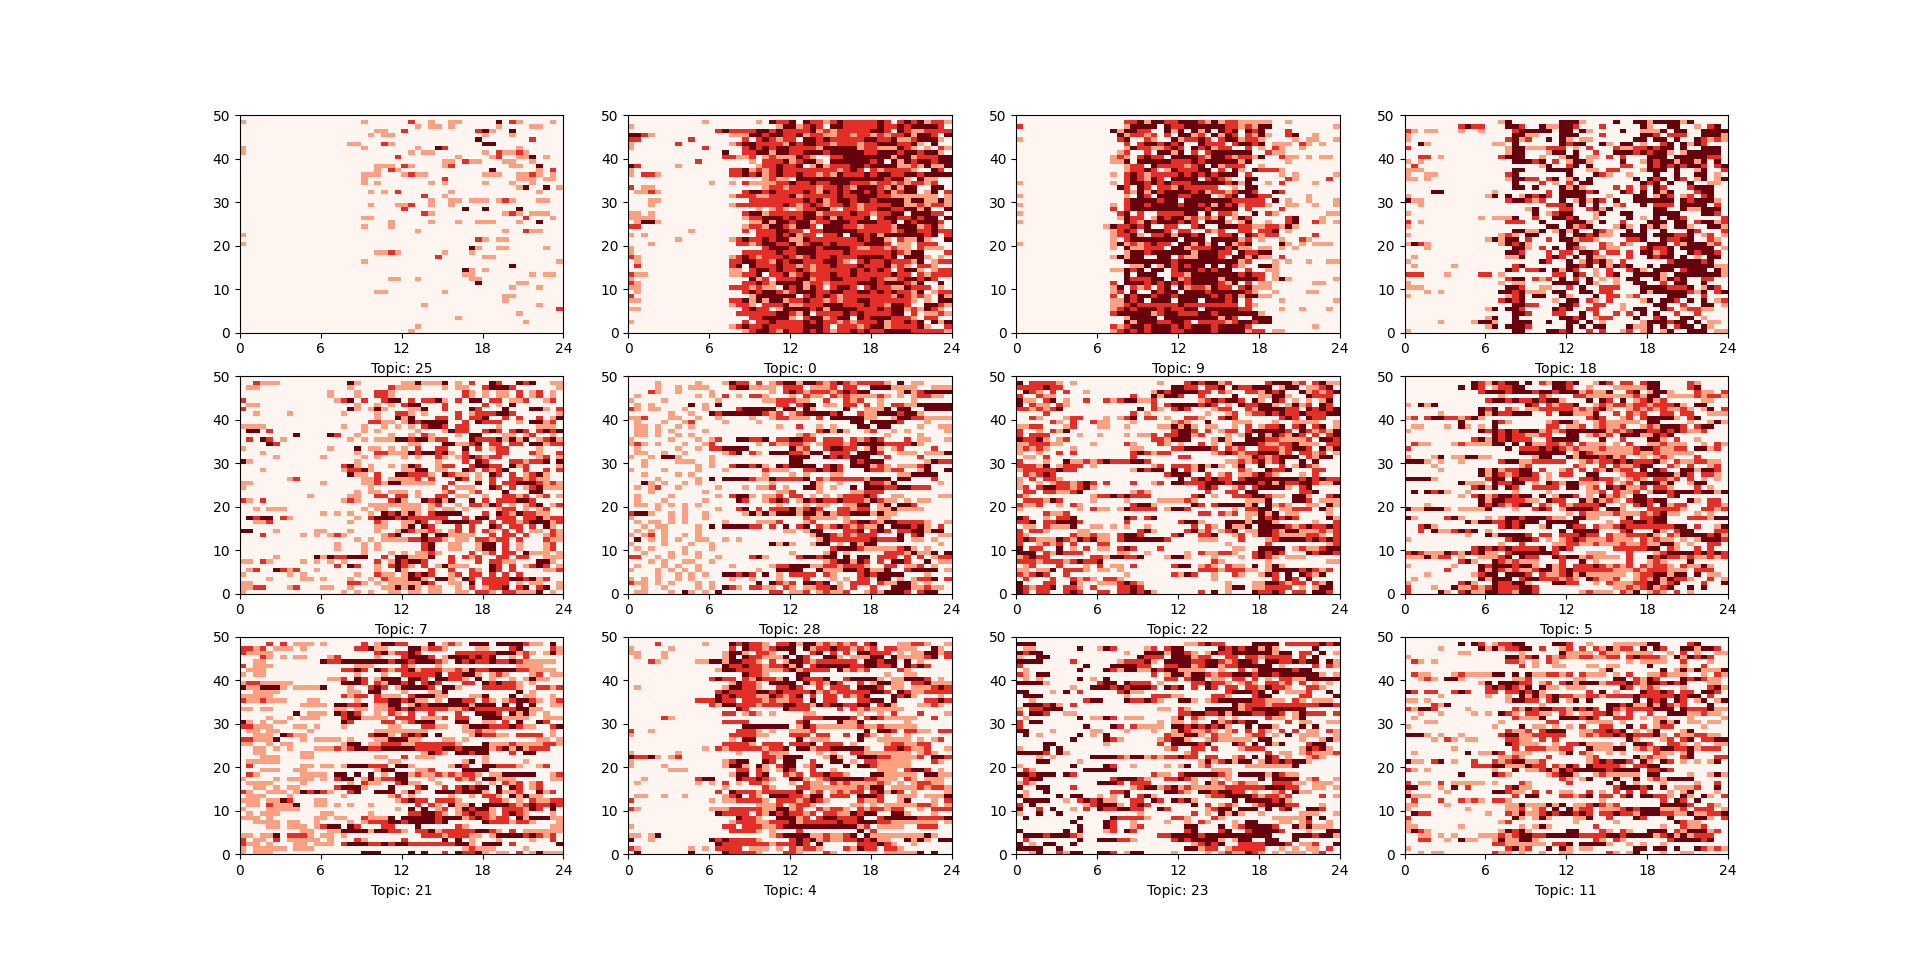
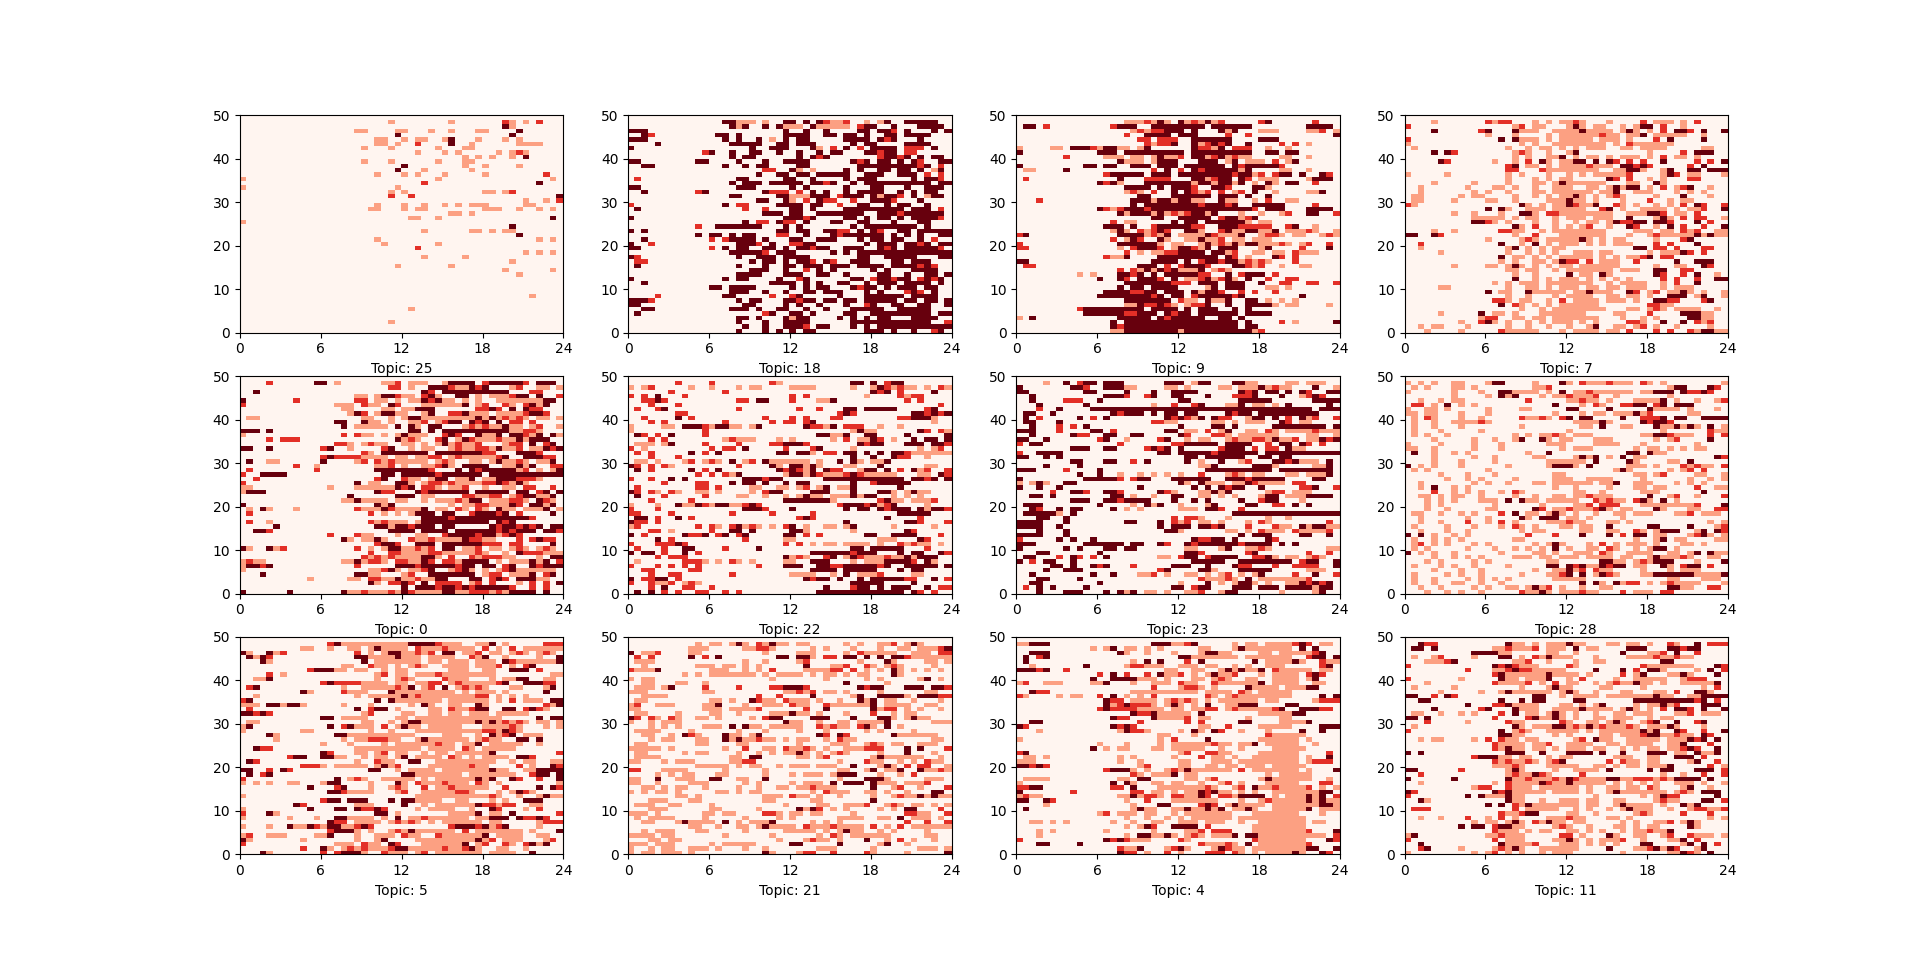
Expriment 2

diff --git a/LDA/experiment.py b/LDA/experiment.py
@@ -10,19 +10,23 @@ n_exp = 1
 if os.path.exists(f"lda_model_{n_exp}.pk") and simulate:
     print("Same number of experiment exists")
     exit()
-
+log = open(f"LDA/result_{n_exp}.out","w")
 df = load_bout()
 # Active Level of Hourly Step Count
 df['30min'] = df['first'].dt.hour + (df['first'].dt.minute//30)/2
-hourly = df.groupby(["uid","date","30min"]).agg(step = ('step','sum'), pstep = ('pstep','sum'), wstep = ('wstep','sum'))
-levels = np.percentile(hourly.query('step!=0')['step'], [0,33,66])
-print("Levels: ", levels)
+hourly = df.groupby(["uid","date","30min", "btype"]).agg(step = ('step','sum'))
+hourly = hourly.unstack(level = 3,fill_value = 0)
+hourly.columns = ['b','p','w']
+hourly['diff'] = hourly['p'].to_numpy() - hourly['w'].to_numpy()
+
+levels = np.percentile(hourly['diff'], [25, 50, 75])
+print("Levels: ", levels, file = log)
 def get_active_level(step):
-    if step == levels[0]:
+    if step <= levels[0]:
         return 0
-    elif step < levels[1]:
+    elif step <= levels[1]:
         return 1
-    elif step < levels[2]:
+    elif step <= levels[2]:
         return 2
     else:
         return 3
@@ -56,7 +60,7 @@ def decomp_word(word):
     ar[3] = word
     return ar
 
-hourly['level'] = [get_active_level(val) for val in hourly['step'].to_numpy()]
+hourly['level'] = [get_active_level(val) for val in hourly['diff'].to_numpy()]
 hourly = hourly[['level']].unstack(level = 2, fill_value = 0)
 doc_vec = np.zeros((hourly.shape[0], 4*4*4*8))
 for doc_idx in range(hourly.shape[0]):
@@ -75,19 +79,19 @@ LDA = LatentDirichletAllocation(n_components= K,
                                 random_state=0,) #doc_topic_prior= 50 / 30, topic_word_prior= .01)
 if simulate:
     fit = LDA.fit(doc_vec)
-    print("saving ...")
+    print("saving ...", file = log)
     pickle.dump(fit, open(f"LDA/model_{n_exp}.pk", 'wb'))
 else:
-    print("loading...")
+    print("loading...",file = log)
     LDA = pickle.load(open(f"LDA/model_{n_exp}.pk", 'rb'))
 
 def cal_top_topics(transform):
-    topics = np.zeros(K)
-    for idx in range(doc_vec.shape[0]):
-        day = transform[idx]
-        top3 = day.argsort()[::-1][:3]
-    for topic in top3:
-        topics[topic] += 1
+    topics = transform.sum(axis = 0)
+    # for idx in range(doc_vec.shape[0]):
+    #     day = transform[idx]
+    #     top3 = day.argsort()[::-1][:3]
+    # for topic in top3:
+    #     topics[topic] += 1
     return topics
 
 def display_topics(transform, n_exp, n_toptopic = 12):
@@ -105,12 +109,34 @@ def display_topics(transform, n_exp, n_toptopic = 12):
         ax.set_xticks(np.arange(0,48+12, 12))
         ax.set_xticklabels(np.arange(0,24+6, 6))
         ax.pcolor(colors, cmap = "Reds")
-    plt.savefig(f"topic_{n_exp}.png")
+    plt.savefig(f"LDA/topic_{n_exp}.png")
     plt.close()
+
+def display_topic_word_distribution(model, transform):
+    top_topics= cal_top_topics(transform).argsort()[:-12:-1]
+    distribution = model.components_ / model.components_.sum(axis=1)[:,np.newaxis]
+    for topic in top_topics:
+        print('Topic #', topic, file = log)
+        tmp = distribution[topic]
+        print(*[str(idx).zfill(3) + " " for idx in tmp.argsort()[::-1][:10]], file = log)
+        tmp.sort()
+        print(*["{:.2f}".format(prob) for prob in tmp[::-1][:10]], file = log)
+        print("", file = log)
+        print("-"*30, file = log)
+
+def display_doc_topic_distribution(transform):
+    top_topics= cal_top_topics(transform).argsort()[:-12:-1]
+    for topic in top_topics:
+        docs =transform[:,topic].argsort()[:-50:-1]
+        print('Topic #', topic, file = log)
+        for doc in docs:
+            print(f"Doc: {hourly.index[doc]}, Topic Prob: {round(transform[doc,topic],3)}",file = log)
+        print("-"*30, file = log)
 
 transform = LDA.transform(doc_vec)
 display_topics(transform, n_exp)
-
+display_doc_topic_distribution(transform)
+log.close()
 
 # distribution = LDA.components_ / LDA.components_.sum(axis=1)[:,np.newaxis]
 # for topic in toptopics:
@@ -155,16 +181,6 @@ display_topics(transform, n_exp)
 #         print('Word #', list(decomp_word(word)))
 #         tmp = distribution[:,word]
 #         print(*[str(idx).zfill(2) + "  " for idx in tmp.argsort()[::-1][:10]])
-#         tmp.sort()
-#         print(*["{:.2f}".format(prob) for prob in tmp[::-1][:10]])
-#         print("")
-#         print("-"*30)
-# def display_topic_word_distribution(model):
-#     distribution = model.components_ / model.components_.sum(axis=1)[:,np.newaxis]
-#     for compidx in range(K):
-#         print('Topic #', compidx)
-#         tmp = distribution[compidx]
-#         print(*[str(idx).zfill(3) + " " for idx in tmp.argsort()[::-1][:10]])
 #         tmp.sort()
 #         print(*["{:.2f}".format(prob) for prob in tmp[::-1][:10]])
 #         print("")
